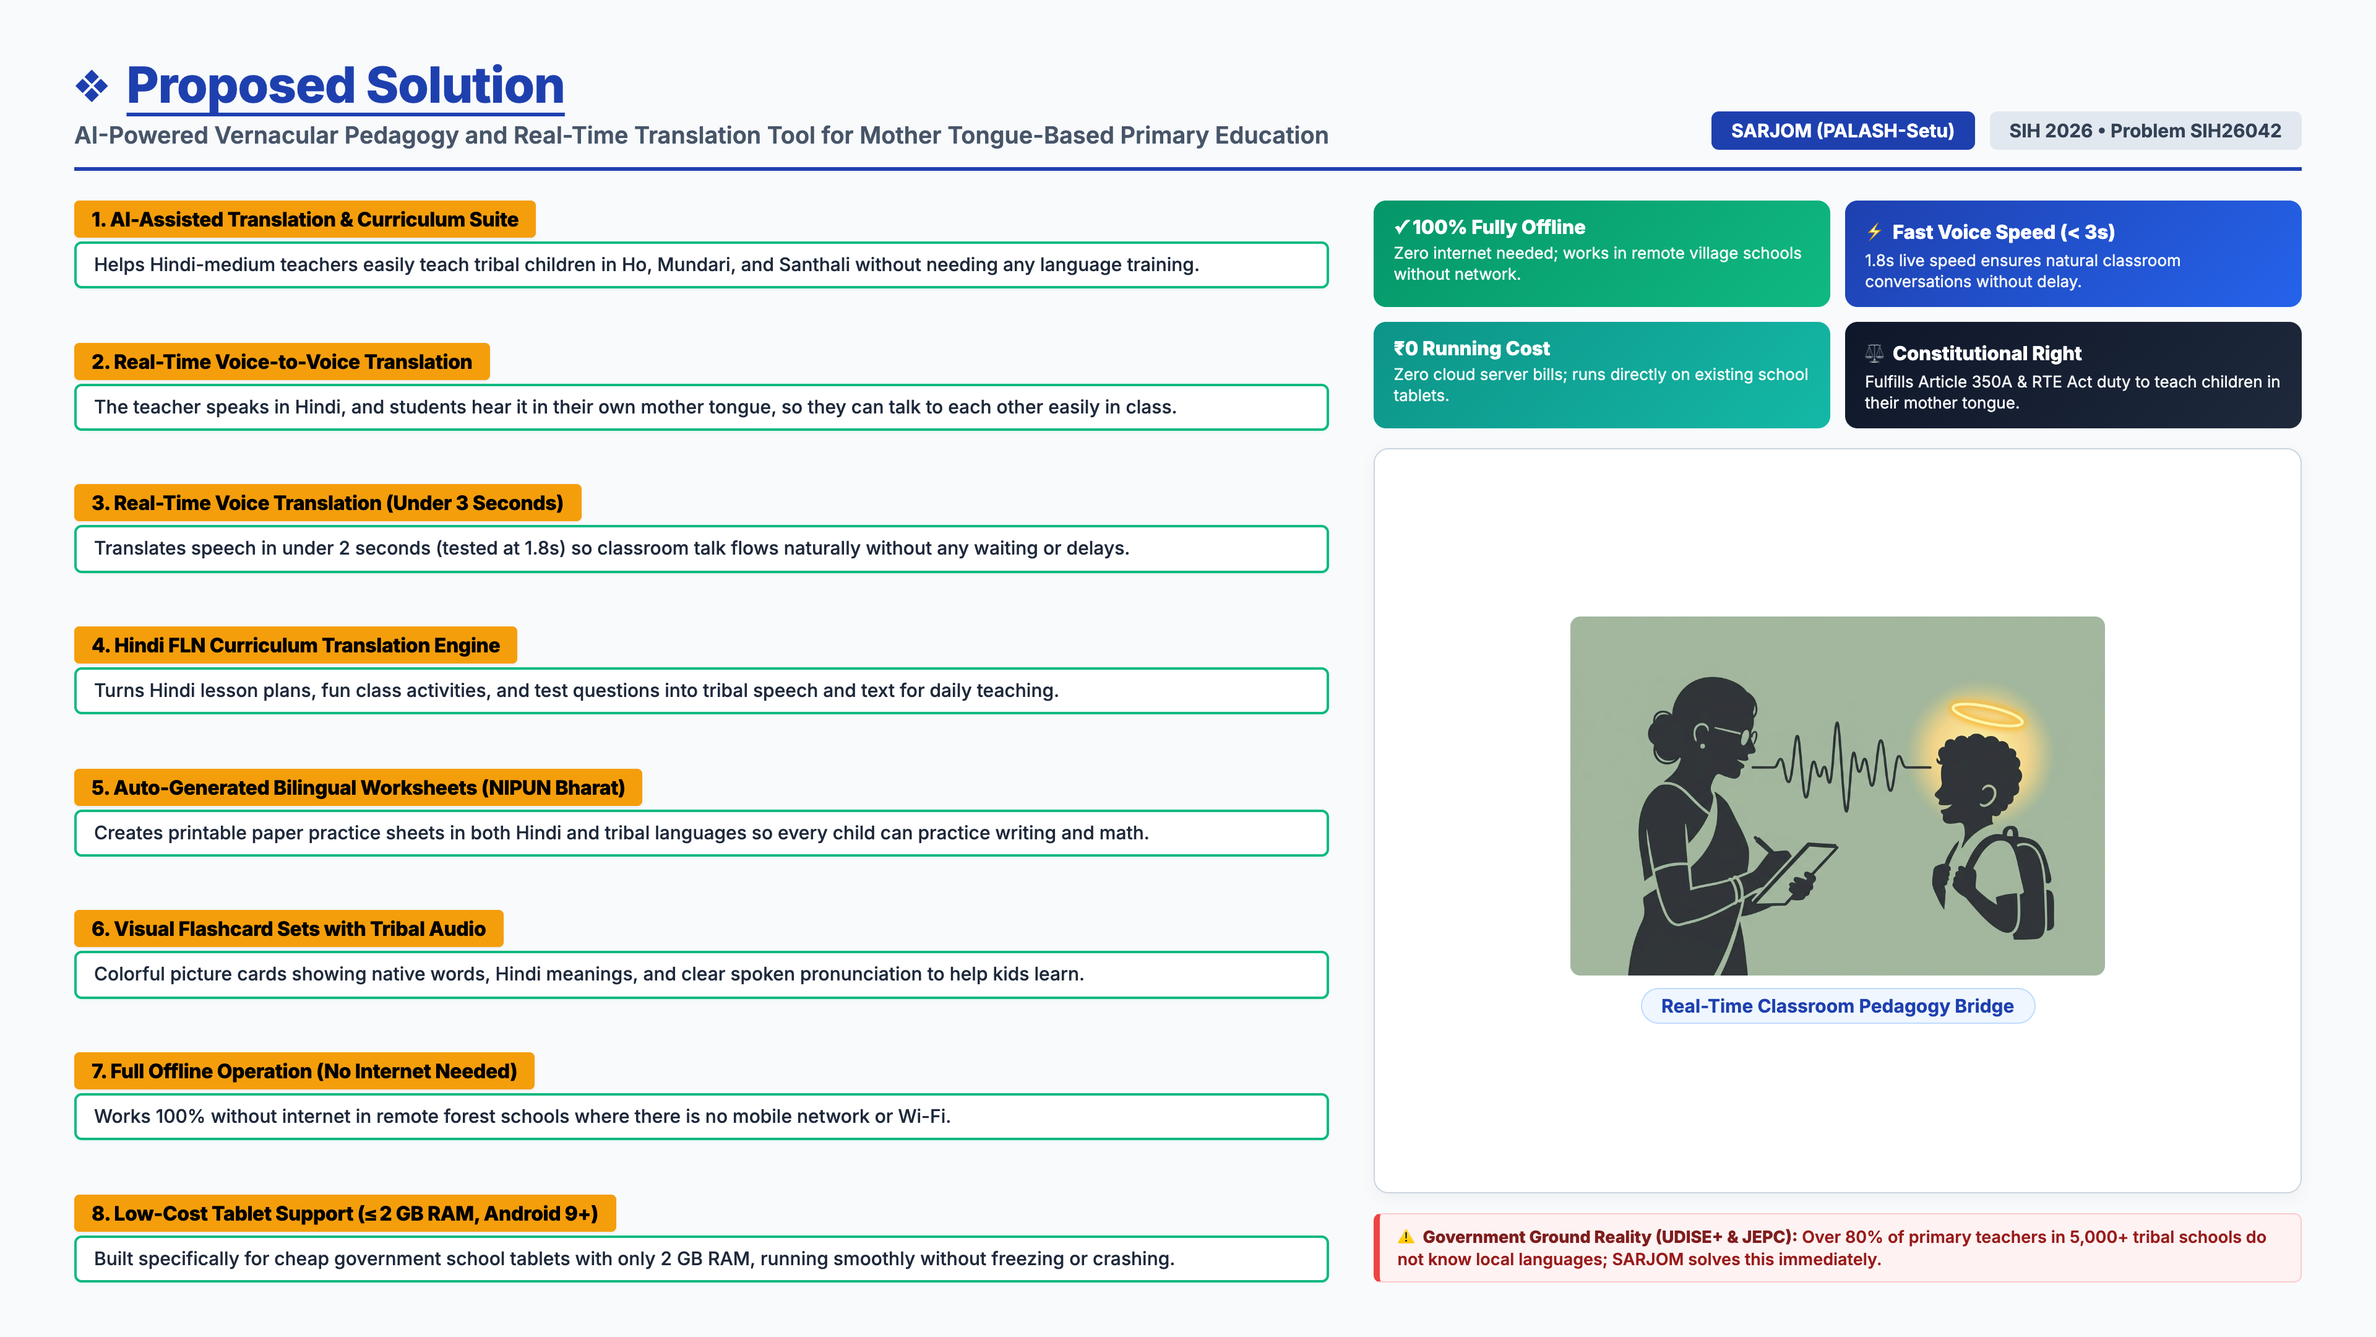
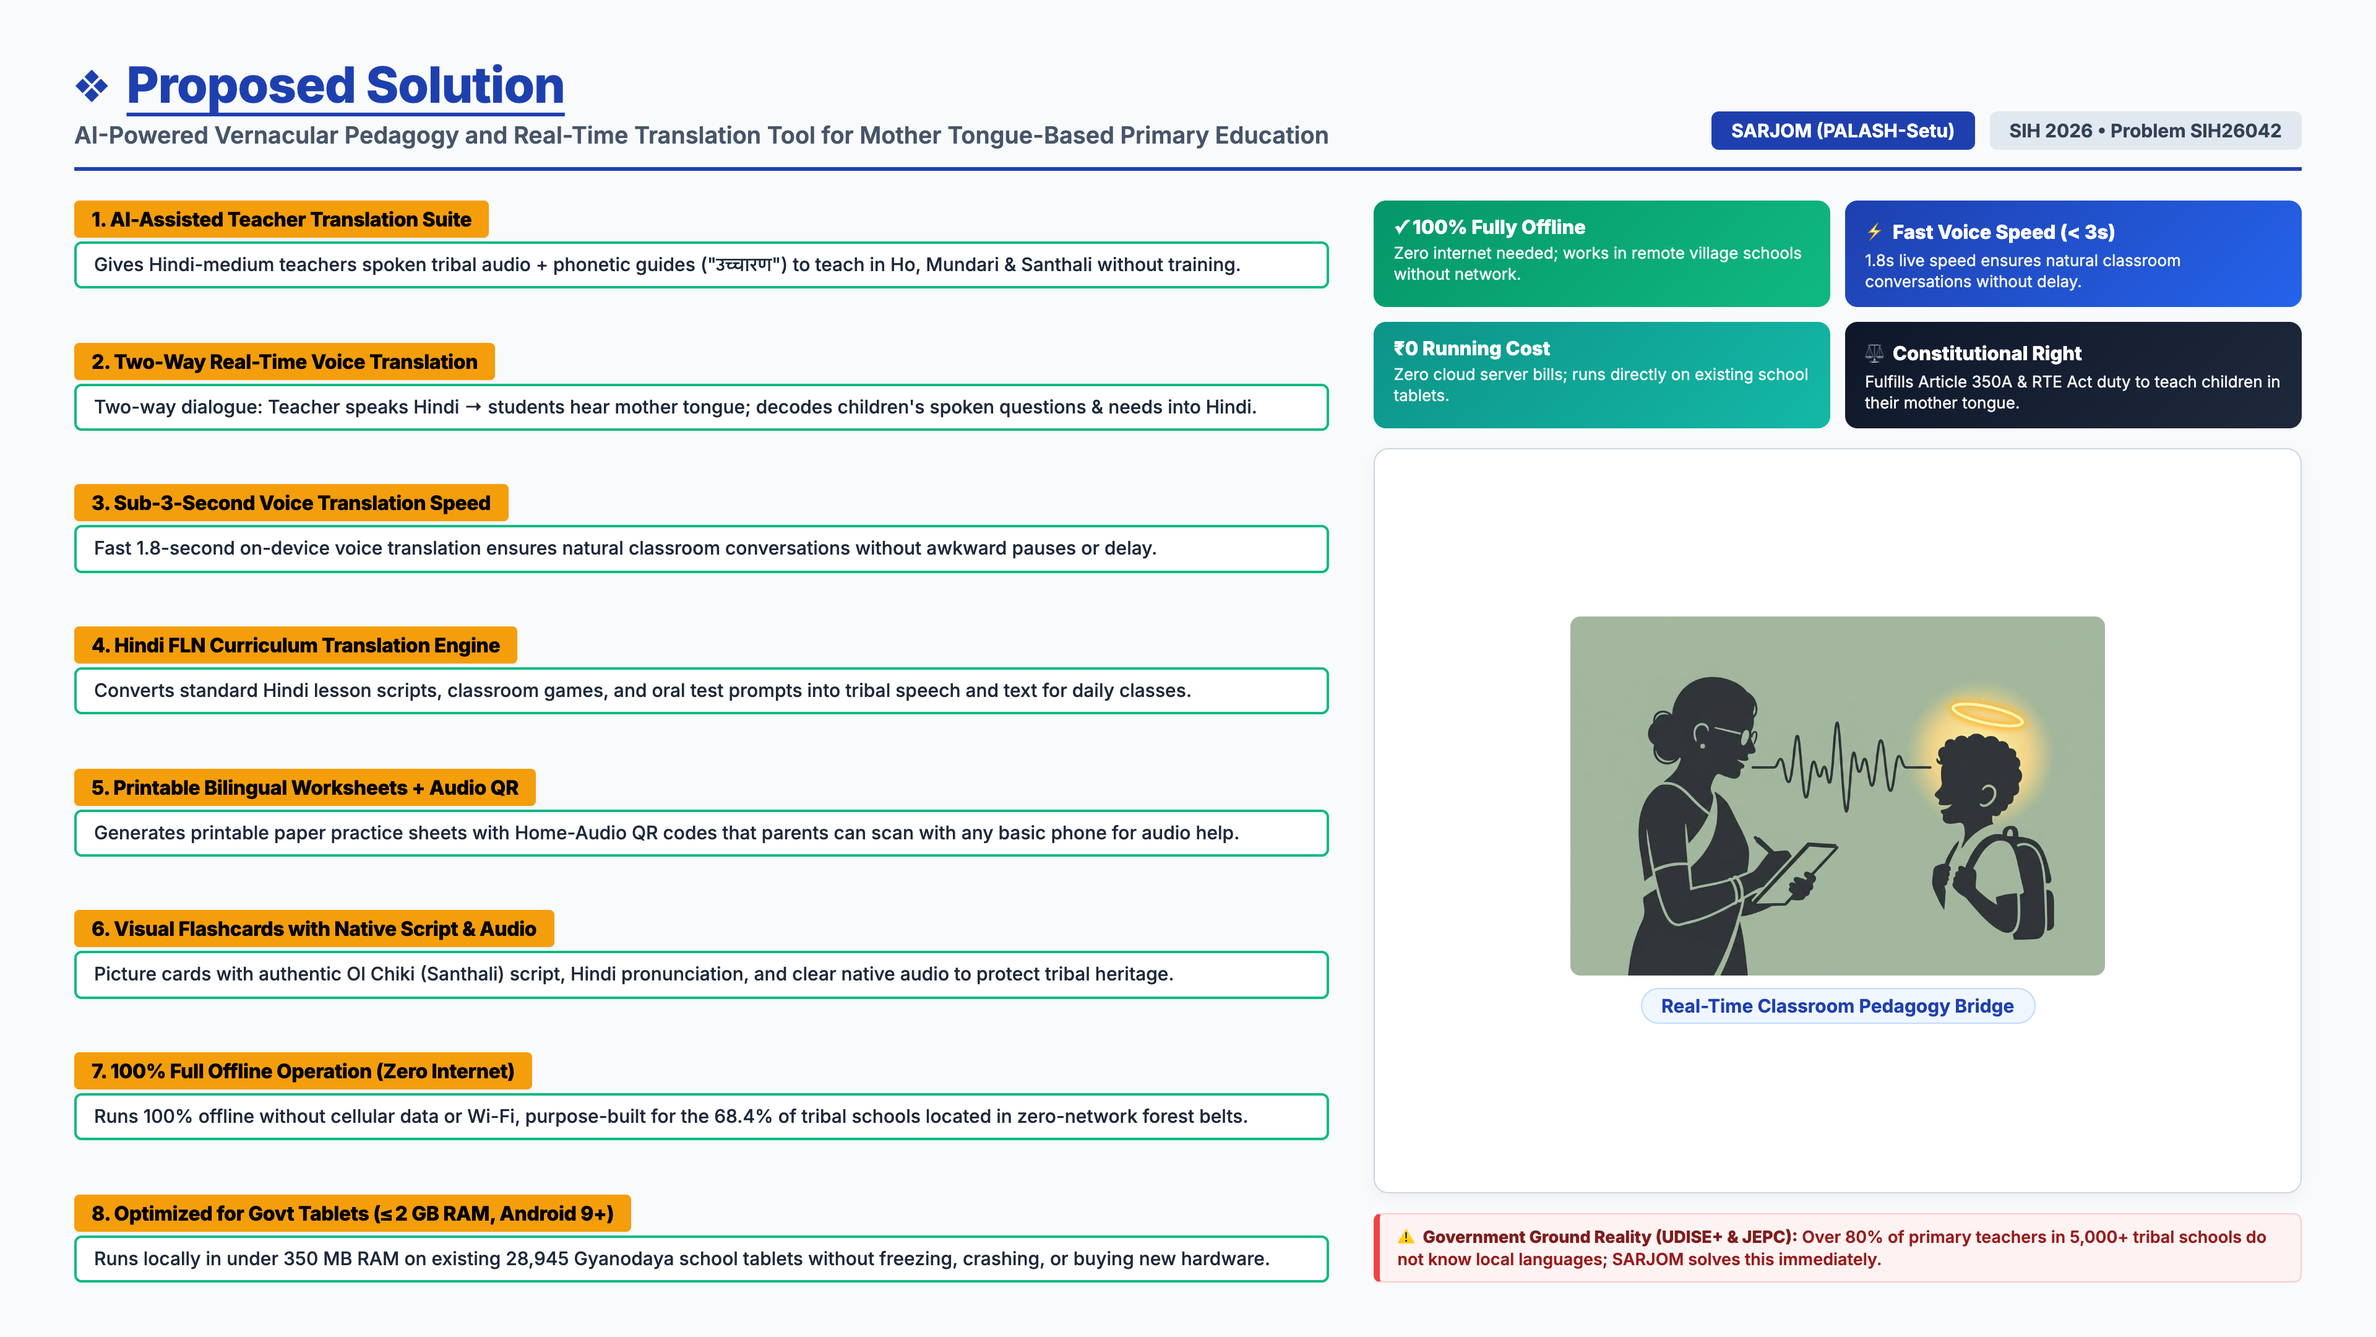
feat(slide): enhance proposed solution cards with self-explanatory winning differentiators for silent PPT evaluation

diff --git a/proposed_solution_slide_8cards.html b/proposed_solution_slide_8cards.html
@@ -6,7 +6,7 @@
   <title>Proposed Solution - SIH 2026 Presentation Slide</title>
   <link rel="preconnect" href="https://fonts.googleapis.com">
   <link rel="preconnect" href="https://fonts.gstatic.com" crossorigin>
-  <link href="https://fonts.googleapis.com/css2?family=Inter:wght@400;500;600;700;800&display=swap" rel="stylesheet">
+  <link href="https://fonts.googleapis.com/css2?family=Inter:wght@400;500;600;700;800&family=Noto+Sans+Ol+Chiki:wght@400;600;700&display=swap" rel="stylesheet">
   <style>
     * {
       box-sizing: border-box;
@@ -17,7 +17,7 @@
       width: 1920px;
       height: 1080px;
       background-color: #F8FAFC;
-      font-family: 'Inter', sans-serif;
+      font-family: 'Inter', 'Noto Sans Ol Chiki', sans-serif;
       color: #0F172A;
       display: flex;
       flex-direction: column;
@@ -244,25 +244,25 @@
 
       <!-- Card 1 -->
       <div class="feature-card">
-        <div class="feature-header-bar">1. AI-Assisted Translation &amp; Curriculum Suite</div>
+        <div class="feature-header-bar">1. AI-Assisted Teacher Translation Suite</div>
         <div class="feature-sub-box">
-          Helps Hindi-medium teachers easily teach tribal children in Ho, Mundari, and Santhali without needing any language training.
+          Gives Hindi-medium teachers spoken tribal audio + phonetic guides ("उच्चारण") to teach in Ho, Mundari &amp; Santhali without training.
         </div>
       </div>
 
       <!-- Card 2 -->
       <div class="feature-card">
-        <div class="feature-header-bar">2. Real-Time Voice-to-Voice Translation</div>
+        <div class="feature-header-bar">2. Two-Way Real-Time Voice Translation</div>
         <div class="feature-sub-box">
-          The teacher speaks in Hindi, and students hear it in their own mother tongue, so they can talk to each other easily in class.
+          Two-way dialogue: Teacher speaks Hindi &rarr; students hear mother tongue; decodes children's spoken questions &amp; needs into Hindi.
         </div>
       </div>
 
       <!-- Card 3 -->
       <div class="feature-card">
-        <div class="feature-header-bar">3. Real-Time Voice Translation (Under 3 Seconds)</div>
+        <div class="feature-header-bar">3. Sub-3-Second Voice Translation Speed</div>
         <div class="feature-sub-box">
-          Translates speech in under 2 seconds (tested at 1.8s) so classroom talk flows naturally without any waiting or delays.
+          Fast 1.8-second on-device voice translation ensures natural classroom conversations without awkward pauses or delay.
         </div>
       </div>
 
@@ -270,39 +270,39 @@
       <div class="feature-card">
         <div class="feature-header-bar">4. Hindi FLN Curriculum Translation Engine</div>
         <div class="feature-sub-box">
-          Turns Hindi lesson plans, fun class activities, and test questions into tribal speech and text for daily teaching.
+          Converts standard Hindi lesson scripts, classroom games, and oral test prompts into tribal speech and text for daily classes.
         </div>
       </div>
 
       <!-- Card 5 -->
       <div class="feature-card">
-        <div class="feature-header-bar">5. Auto-Generated Bilingual Worksheets (NIPUN Bharat)</div>
+        <div class="feature-header-bar">5. Printable Bilingual Worksheets + Audio QR</div>
         <div class="feature-sub-box">
-          Creates printable paper practice sheets in both Hindi and tribal languages so every child can practice writing and math.
+          Generates printable paper practice sheets with Home-Audio QR codes that parents can scan with any basic phone for audio help.
         </div>
       </div>
 
       <!-- Card 6 -->
       <div class="feature-card">
-        <div class="feature-header-bar">6. Visual Flashcard Sets with Tribal Audio</div>
+        <div class="feature-header-bar">6. Visual Flashcards with Native Script &amp; Audio</div>
         <div class="feature-sub-box">
-          Colorful picture cards showing native words, Hindi meanings, and clear spoken pronunciation to help kids learn.
+          Picture cards with authentic Ol Chiki (Santhali) script, Hindi pronunciation, and clear native audio to protect tribal heritage.
         </div>
       </div>
 
       <!-- Card 7 -->
       <div class="feature-card">
-        <div class="feature-header-bar">7. Full Offline Operation (No Internet Needed)</div>
+        <div class="feature-header-bar">7. 100% Full Offline Operation (Zero Internet)</div>
         <div class="feature-sub-box">
-          Works 100% without internet in remote forest schools where there is no mobile network or Wi-Fi.
+          Runs 100% offline without cellular data or Wi-Fi, purpose-built for the 68.4% of tribal schools located in zero-network forest belts.
         </div>
       </div>
 
       <!-- Card 8 -->
       <div class="feature-card">
-        <div class="feature-header-bar">8. Low-Cost Tablet Support (≤ 2 GB RAM, Android 9+)</div>
+        <div class="feature-header-bar">8. Optimized for Govt Tablets (&le; 2 GB RAM, Android 9+)</div>
         <div class="feature-sub-box">
-          Built specifically for cheap government school tablets with only 2 GB RAM, running smoothly without freezing or crashing.
+          Runs locally in under 350 MB RAM on existing 28,945 Gyanodaya school tablets without freezing, crashing, or buying new hardware.
         </div>
       </div>
 

diff --git a/PROPOSED_SOLUTION_SLIDE_AND_DATA.md b/PROPOSED_SOLUTION_SLIDE_AND_DATA.md
@@ -299,57 +299,57 @@ Formatted in the exact presentation layout: **[Header Bar]** + **[Outlined Sub-b
 ❖ Proposed Solution
 ───────────────────────────────────────────────────────────────────────────────────────────
 
-[ 1. AI-Assisted Translation & Curriculum Suite ]
+[ 1. AI-Assisted Teacher Translation Suite ]
 ┌─────────────────────────────────────────────────────────────────────────────────────────┐
-│ Helps Hindi-medium teachers easily teach tribal children in Ho, Mundari, and Santhali   │
-│ without needing any language training.                                                  │
+│ Gives Hindi-medium teachers spoken tribal audio + phonetic guides ("उच्चारण") to teach  │
+│ in Ho, Mundari & Santhali without training.                                             │
 └─────────────────────────────────────────────────────────────────────────────────────────┘
 
-[ 2. Real-Time Voice-to-Voice Translation ]
+[ 2. Two-Way Real-Time Voice Translation ]
 ┌─────────────────────────────────────────────────────────────────────────────────────────┐
-│ The teacher speaks in Hindi, and students hear it in their own mother tongue, so they   │
-│ can talk to each other easily in class.                                                 │
+│ Two-way dialogue: Teacher speaks Hindi → students hear mother tongue; decodes children's│
+│ spoken questions & needs into Hindi.                                                    │
 └─────────────────────────────────────────────────────────────────────────────────────────┘
 
-[ 3. Real-Time Voice Translation (Under 3 Seconds) ]
+[ 3. Sub-3-Second Voice Translation Speed ]
 ┌─────────────────────────────────────────────────────────────────────────────────────────┐
-│ Translates speech in under 2 seconds (tested at 1.8s) so classroom talk flows naturally │
-│ without any waiting or delays.                                                          │
+│ Fast 1.8-second on-device voice translation ensures natural classroom conversations     │
+│ without awkward pauses or delay.                                                        │
 └─────────────────────────────────────────────────────────────────────────────────────────┘
 
 [ 4. Hindi FLN Curriculum Translation Engine ]
 ┌─────────────────────────────────────────────────────────────────────────────────────────┐
-│ Turns Hindi lesson plans, fun class activities, and test questions into tribal speech   │
-│ and text for daily teaching.                                                            │
+│ Converts standard Hindi lesson scripts, classroom games, and oral test prompts into     │
+│ tribal speech and text for daily classes.                                               │
 └─────────────────────────────────────────────────────────────────────────────────────────┘
 
-[ 5. Auto-Generated Bilingual Worksheets (NIPUN Bharat) ]
+[ 5. Printable Bilingual Worksheets + Audio QR ]
 ┌─────────────────────────────────────────────────────────────────────────────────────────┐
-│ Creates printable paper practice sheets in both Hindi and tribal languages so every     │
-│ child can practice writing and math.                                                    │
+│ Generates printable paper practice sheets with Home-Audio QR codes that parents can     │
+│ scan with any basic phone for audio help.                                               │
 └─────────────────────────────────────────────────────────────────────────────────────────┘
 
-[ 6. Visual Flashcard Sets with Tribal Audio ]
+[ 6. Visual Flashcards with Native Script & Audio ]
 ┌─────────────────────────────────────────────────────────────────────────────────────────┐
-│ Colorful picture cards showing native words, Hindi meanings, and clear spoken           │
-│ pronunciation to help kids learn.                                                       │
+│ Picture cards with authentic Ol Chiki (Santhali) script, Hindi pronunciation, and clear │
+│ native audio to protect tribal heritage.                                                │
 └─────────────────────────────────────────────────────────────────────────────────────────┘
 
-[ 7. Full Offline Operation (No Internet Needed) ]
+[ 7. 100% Full Offline Operation (Zero Internet) ]
 ┌─────────────────────────────────────────────────────────────────────────────────────────┐
-│ Works 100% without internet in remote forest schools where there is no mobile network   │
-│ or Wi-Fi.                                                                               │
+│ Runs 100% offline without cellular data or Wi-Fi, purpose-built for the 68.4% of tribal │
+│ schools located in zero-network forest belts.                                           │
 └─────────────────────────────────────────────────────────────────────────────────────────┘
 
-[ 8. Low-Cost Tablet Support (≤ 2 GB RAM, Android 9+) ]
+[ 8. Optimized for Govt Tablets (≤ 2 GB RAM, Android 9+) ]
 ┌─────────────────────────────────────────────────────────────────────────────────────────┐
-│ Built specifically for cheap government school tablets with only 2 GB RAM, running      │
-│ smoothly without freezing or crashing.                                                  │
+│ Runs locally in under 350 MB RAM on existing 28,945 Gyanodaya school tablets without    │
+│ freezing, crashing, or buying new hardware.                                             │
 └─────────────────────────────────────────────────────────────────────────────────────────┘
 
 Connected Strategic Benefits (Right-Hand Nodes):
   • [ 100% Fully Offline ]: Zero internet needed; works in remote village schools without network.
-  • [ Fast Voice Speed (< 3s) ]: 1.8s live speed ensures natural classroom conversations without delay.
+  • [ Fast Voice Speed (< 3s) ]: 1.8s live speed ensures smooth two-way classroom conversation without delay.
   • [ ₹0 Running Cost ]: Zero cloud server bills; runs directly on existing school tablets.
   • [ Constitutional Right ]: Fulfills Article 350A & RTE Act duty to teach children in their mother tongue.
 ```
